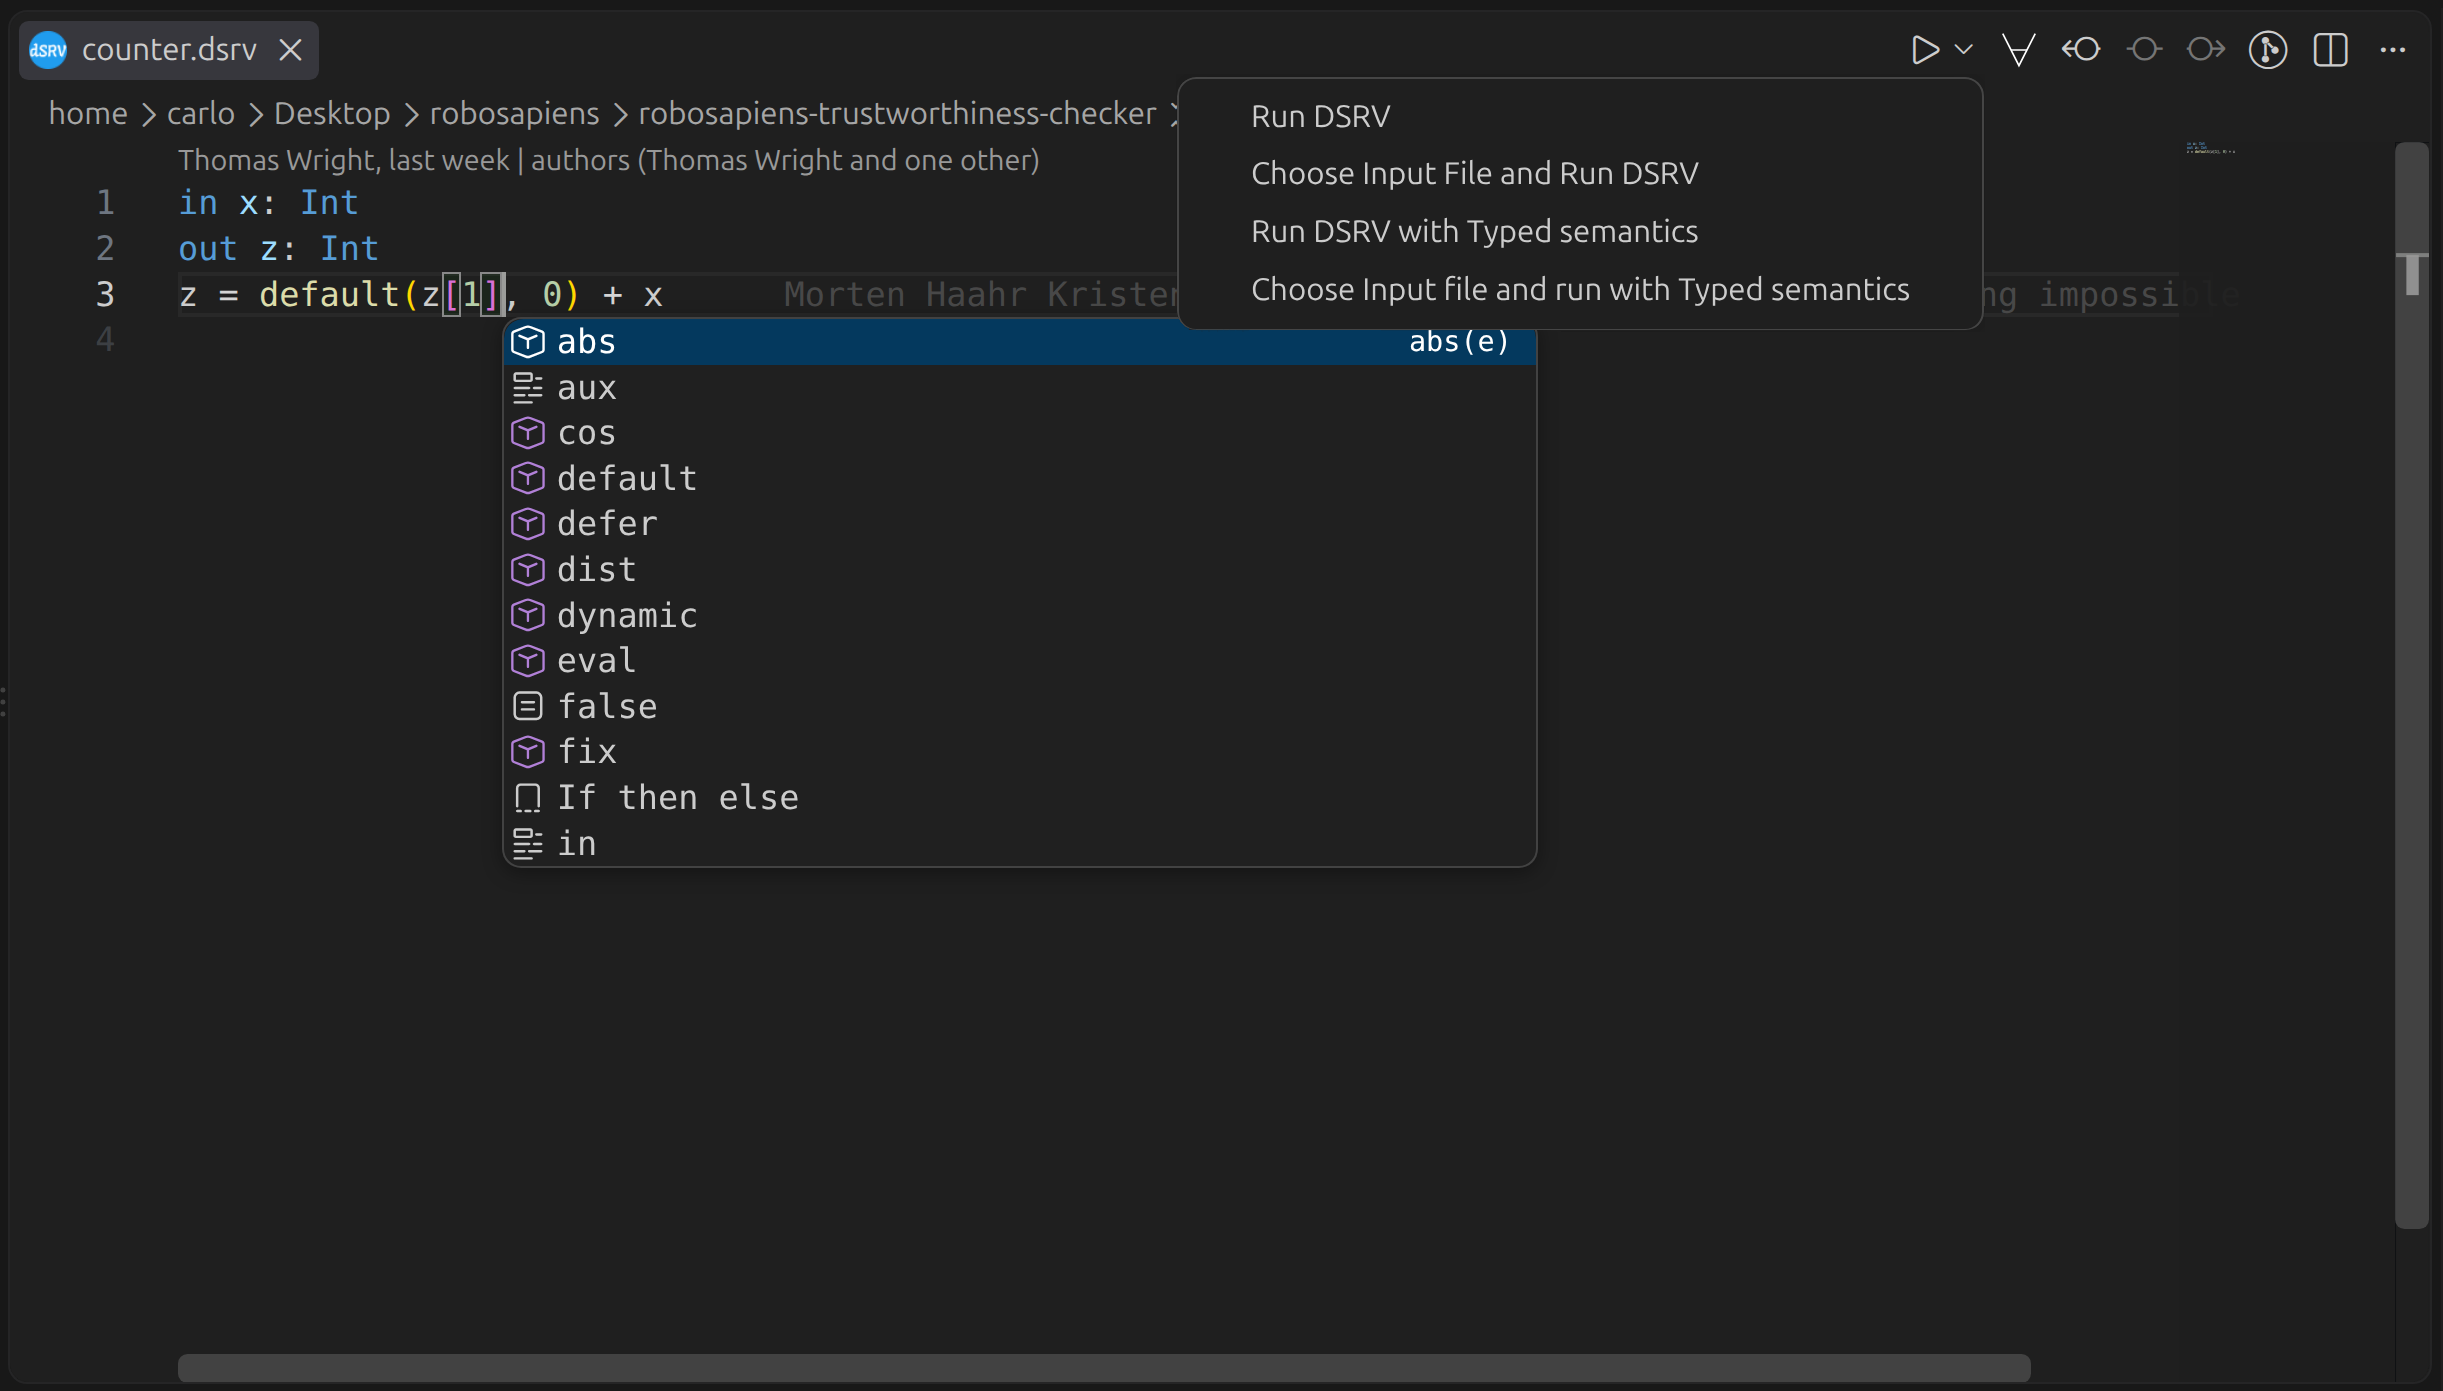
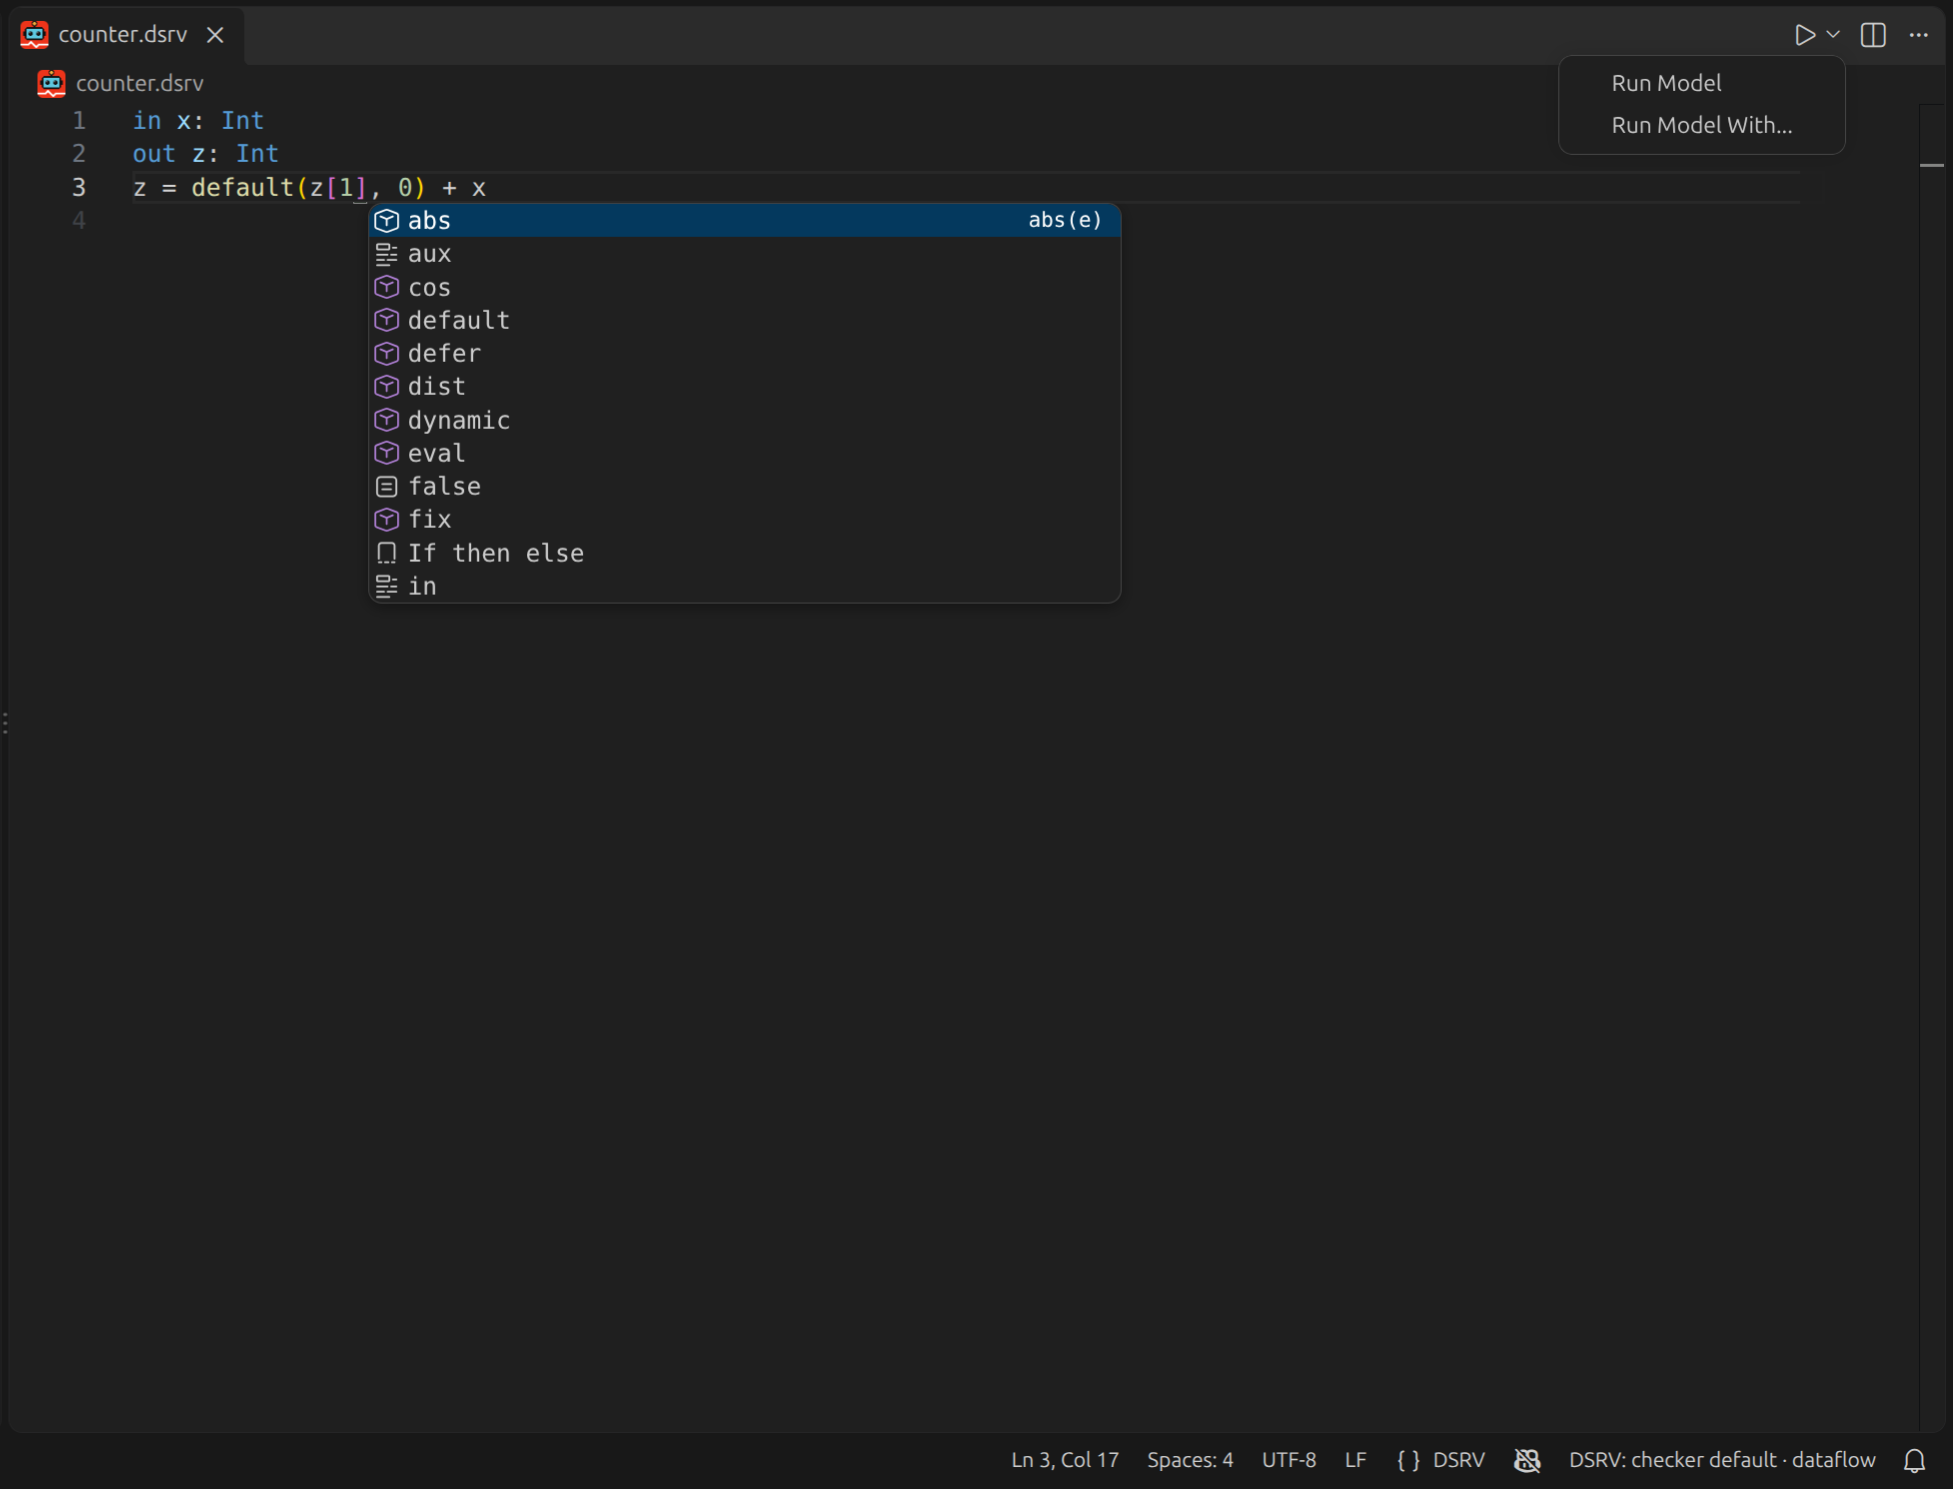
docs: update editor support and getting started documentation sections and screenshot

diff --git a/docs/src/features/editor-support.md b/docs/src/features/editor-support.md
@@ -5,7 +5,9 @@ The DSRV language has editor support for Visual Studio Code, provided by two sep
 - the **[dsrv-vscode](https://github.com/INTO-CPS-Association/dsrv-vscode)** extension, which supplies syntax highlighting, the `.dsrv` file association, and commands for running a model;
 - the **[dsrv-lsp](https://github.com/INTO-CPS-Association/dsrv-lsp)** language server, which supplies completion and diagnostics over the Language Server Protocol.
 
-The language server links the Trustworthiness Checker (TC) as a library and reuses its parser and type checker, so editor diagnostics reflect the same language definition the TC evaluates.
+The language server links the Trustworthiness Checker (TC) as a library and reuses its parser and type checker, so editor diagnostics come from the same language definition the TC evaluates, though not necessarily from the same revision of it. See [When diagnostics and runs disagree](#when-diagnostics-and-runs-disagree).
+
+Both executables ship inside the extension. Installing it is the whole setup; nothing has to be built first.
 
 ## What the extension provides
 
@@ -14,76 +16,102 @@ The language server links the Trustworthiness Checker (TC) as a library and reus
 | Syntax highlighting for `.dsrv` files | Extension | Static grammar; no binary required |
 | Keyword and function completion | Language server | Not yet context-aware |
 | Syntax and type diagnostics | Language server | Reported as editor squiggles |
-| Run the current model | Extension | Invokes the `trustworthiness_checker` binary in a terminal |
+| Run the current model | Extension | Runs the checker as a VS Code task |
 
-Syntax highlighting works with the extension alone. Every other feature requires one or both binaries described below.
+## Install the extension
 
-## Requirements
+Search for **DSRV Language Support** in the Extensions view (<kbd>Ctrl</kbd>+<kbd>shift</kbd>+<kbd>X</kbd>) and install it.
 
-The extension does not bundle the binaries it drives. Two executables must be available before the language and run features work:
+The extension is published as one package per platform, and the Marketplace sends you the one for yours. To install it from a file instead, take the `.vsix` for your platform from the [releases](https://github.com/INTO-CPS-Association/dsrv-vscode/releases) and run:
 
-| Binary | Source repository | Purpose |
-|---|---|---|
-| `dsrv-lsp` | [dsrv-lsp](https://github.com/INTO-CPS-Association/dsrv-lsp) | Completion and diagnostics |
-| `trustworthiness_checker` | This repository | Executing a model from the editor |
+````sh
+code --install-extension <vsix-file>
+````
 
-Build the checker as described in [Getting started](../getting-started.md). For a standalone binary rather than `cargo run`, build in release mode from the repository root:
+## Bundled binaries
+
+The extension contains a `dsrv-lsp` and a `trustworthiness_checker` built for your platform, so completion, diagnostics and running a model all work on a fresh install.
+
+Each release pins the exact version of each executable it ships, rather than tracking the latest; `bundled-binaries.json` in the extension's repository records which ones a given version contains.
+
+## Using your own build
+
+Set either path setting and the extension uses your executable instead of the bundled one.
+
+| Setting | Points at |
+| --- | --- |
+| `DSRV.binaryPath` | A `trustworthiness_checker` of your own |
+| `DSRV.lspPath` | A `dsrv-lsp` of your own |
+
+Each accepts the executable itself, a directory containing it, or a bare command name to resolve from `PATH`. Given a Cargo checkout it also looks in `target/releases` and `target/debug`, so pointing the setting at the repository root is enough.
+
+The extension looks at the setting first, then at the bundled binary, then at `PATH`. An empty setting, the default, means the bundled binary is used.
+
+To build the executables yourself, see [Getting started](../getting-started.md) for the checker, and build in release mode from the repository root:
 
 ```sh
 cargo build --release --package trustworthiness_checker
 ```
 
-The executable is written to `target/release/trustworthiness_checker`.
-
-Build the language server the same way from a `dsrv-lsp` checkout.
-
-The executable is written to `target/release/dsrv-lsp`.
-
-## Install the extension
-
-<!-- TODO -->
-
-## Configure the binary paths
-
-The extension contributes two settings, both available under **File -> Preferences -> Settings** by searching for `DSRV`:
-
-| Setting | Meaning | Default |
-|---|---|---|
-| `DSRV.lspPath` | Path to the `dsrv-lsp` executable | Empty; `dsrv-lsp` is resolved from `PATH` |
-| `DSRV.binaryPath` | Path to the `trustworthiness_checker` executable | `./target/release/trustworthiness_checker`, resolved against the workspace root |
-
-Both settings accept an absolute path, a path relative to the workspace root, or a bare command name resolved from `PATH`.
-
-The default value of `DSRV.binaryPath` assumes the open workspace is a checkout of this repository. When editing DSRV models in another project, set the setting to an absolute path or install the binary on `PATH`.
+The executable is written to `target/release/trustworthiness_checker`. Build the language server the same way from a `dsrv-lsp` checkout, which writes `target/release/dsrv-lsp`.
 
 ## Run a model from the editor
 
-Open a `.dsrv` file. Run commands appear in the editor title bar as a drop-down menu, beside the run button:
+Open a `.dsrv` file and press the run button in the editor bar.
 
-| Command | Input file | Semantics |
-|---|---|---|
-| Run DSRV | `<name>.input` beside the model | `untimed` |
-| Choose Input File and Run DSRV | Selected through a file dialog | `untimed` |
-| Run DSRV with Typed semantics | `<name>.input` beside the model | `typed-untimed` |
-| Choose Input file and run with Typed semantics | Selected through a file dialog | `typed-untimed` |
+| Command | What it does |
+| --- | --- |
+| **DSRV: Run** | Runs the model in the active editor with the configured semantics. Uses `<name>.input` when that file sits beside the model, and otherwise asks you to choose an input file. |
+| **DSRV: Run with...** | The same, but asks which semantics to use for this run only, leaving the setting unchanged. |
+| **DSRV: Select semantics** | Changes the configured semantics. This is also what the status bar item does when clicked. |
 
-Each command opens a terminal and invokes the checker directly:
+The command invoked is:
 
 ```text
 <trustworthiness_checker> <model.dsrv> --input-file <input> \
-    --language dsrv --semantics <semantics> --output-stdout
+    --language dsrv [--semantics <semantics>] [--runtime <runtime>] \
+    --output-stdout
 ```
 
-The simplest workflow keeps an input file beside the model with the same base name - `counter.dsrv` and `counter.input` - so **Run DSRV** needs no file dialog.
+The run appears in its own terminal as a VS Code task, which echoes that command line at the top.
 
-The editor's ordinary run commands select `untimed`, the same gradual typing used by the CLI default. The typed commands select strict `typed-untimed` checking. See the [CLI reference](../reference/cli.md) for the full set of semantics values.
+## Choosing semantics and a runtime
+
+While a `.dsrv` file is open, the status bar shows which semantics a run will use. Click it to change the setting.
+
+| Setting | Default | Meaning |
+| --- | --- | --- |
+| `DSRV.semantics` | empty | Which semantics to monitor with. Empty passes no `--semantics`, so the checker's own default applies. |
+| `DSRV.runtime` | empty | Which runtime to execute on. Empty passes no `--runtime`, so the checker's own default applies. |
+
+Both are empty by default, which means running from the editor is the same command as running from a shell. The status bar shows `DSRV: checker default` in that case, because the default belongs to the checker and the extension does not restate it.
+
+## Semantics
+
+| Value | Meaning |
+| --- | --- |
+| `untimed` | Gradual typing: checks the annotations you wrote, infers the ones you did not, and uses type information during evaluation where supported. |
+| `typed-untimed` | Strict typing: requries annotations on all stream variables. |
+| `causal` | Produces values with causal sets identifying which input observations support them. |
+
+The checker accepts further semantics that target MLTL and STL; the extension does not offer them, because it supports DSRV only. See the [CLI reference](../reference/cli.md) for the full set.
+
+## Runtimes
+
+`causal` only runs on the semi-synchronous runtime, so selecting it makes the extension pass `--runtime semi-sync` whatever `DSRV.runtime` says. The status bar shows this as `DSRV: causal · semi-sync`, and the echoed command line shows the flag.
 
 ## Troubleshooting
 
-**No completion or diagnostics.** The language server did not start. Check the `DSRV` output channel (**View -> Output**, then select `DSRV`). A message of the form `Failed to start dsrv-lsp: spawn dsrv-lsp ENOENT` means the executable was not found: set `DSRV.lspPath` to its absolute path, or place `dsrv-lsp` on `PATH`.
+**No completion or diagnostics.** The language server did not start. Check the `DSRV` output channel (**View -> Output**, then select `DSRV`). A message of the form `Failed to start dsrv-lsp: spawn dsrv-lsp ENOENT` means the executable was not found, which on a default installation should not happen. Check whether `DSRV.lspPath` is set and points somewhere that no longer exists. Clearing it falls back to the bundled server.
 
-**A run command reports that the input file was not found.** The extension looks for a file with the model's base name and the `.input` extension in the same folder. Create it, or use one of the "Choose input file" commands.
+Setting `dsrv-lsp.trace.server` to `verbose` logs the traffic between the editor and the server in the same output channel.
 
-**A run command opens a terminal and the shell reports that the command does not exist.** `DSRV.binaryPath` does not point at a built checker. Build it as described above and set the setting to the resulting path.
+**A run reports that the checker could not be found.** The same applies to `DSRV.binaryPath`: clear it to go back to the bundled checker. The error message offers to locate the executable for you, which writes the path into the setting.
 
-**Diagnostics disagree with what the checker accepts.** The language server pins a specific revision of the checker and is updated deliberately, so a newly changed language definition may reach the checker before it reaches the langiage server. Rebuild `dsrv-lsp` against the checker revision you are running.
+**A run exits immediately with a usage error.** Read the echoed command line in the terminal. A `--semantics` or `--runtime` value edited by hand in `settings.json` may not be one your checker accepts; the extension's dropdowns only offer values that work with the bundled one.
+
+<a id="when-diagnostics-and-runs-disagree"></a>
+ 
+**Diagnostics disagree with what a run accepts.** The two bundled executables contain copies of the DSRV front end built from different revisions of the checker, so in edge cases around typing they can disagree: the editor may not flag something a run rejects, or the other way round. When they disagree, the run is the authority.
+
+If you build both yourself, rebuild `dsrv-lsp` against the checker revision you are running and the two agree. With the bundled binaries there is nothing to adjust; closing this gap is the next piece of work on the language server.

diff --git a/docs/src/getting-started.md b/docs/src/getting-started.md
@@ -84,11 +84,13 @@ Under WSL, use the Linux instructions on this page inside the WSL distribution. 
 
 ## Editor Support
 
-![The DSRV extension in VS Code: syntax highlighting, completion, and run commands](./assets/user/editor-support.png)
+![The DSRV extension in VS Code: syntax highlighting, completion, and the run button](./assets/user/editor-support.png)
 
-A Visual Studio Code extension provides syntax highlighting, completion, and inline diagnostics for `.dsrv` files, and runs a model from the editor without switching to a shell. The language features come from the DSRV language server, which reuses this repository's parser and type checker, so the errors shown while editing are the ones the checker reports.
+A Visual Studio Code extension provides syntax highlighting, completion, and inline diagnostics for `.dsrv` files, and runs a model from the editor without switching to a shell. It ships with its own copy of the checker and of the language server, so none of the build steps above are needed to use it.
 
-See [Editor Support](features/editor-support.md) for what it provides, which binaries it needs, and how to configure them.
+The language features come from the DSRV language server, which reuses this repository's parser and type checker, so the errors shown while editing are the ones the checker reports, with the caveat described under [Editor support](features/editor-support.md#troubleshooting).
+
+See [Editor Support](features/editor-support.md) for what it provides and how to point it at your own build instead of the bundled one.
 
 ## Continue from the first run
 
